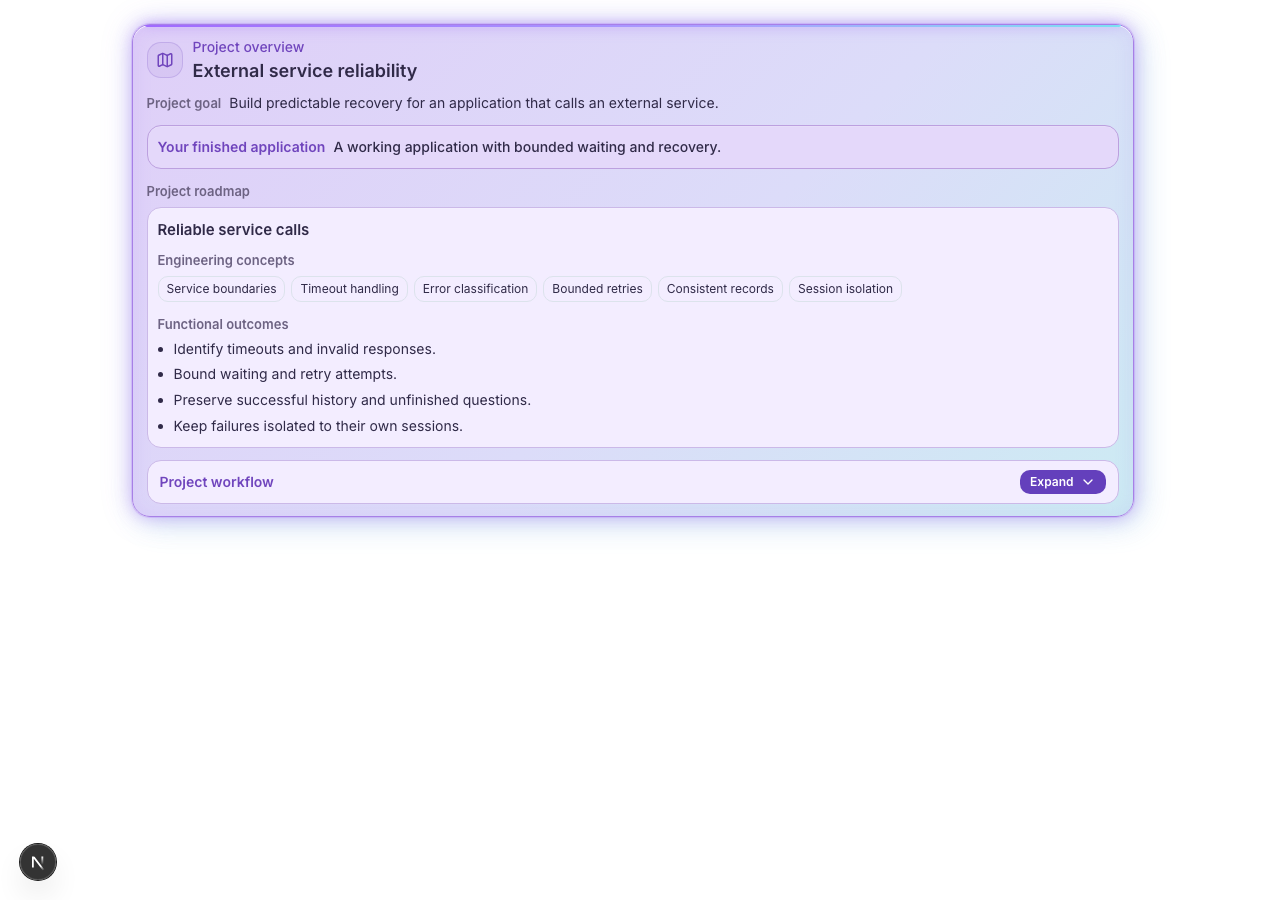
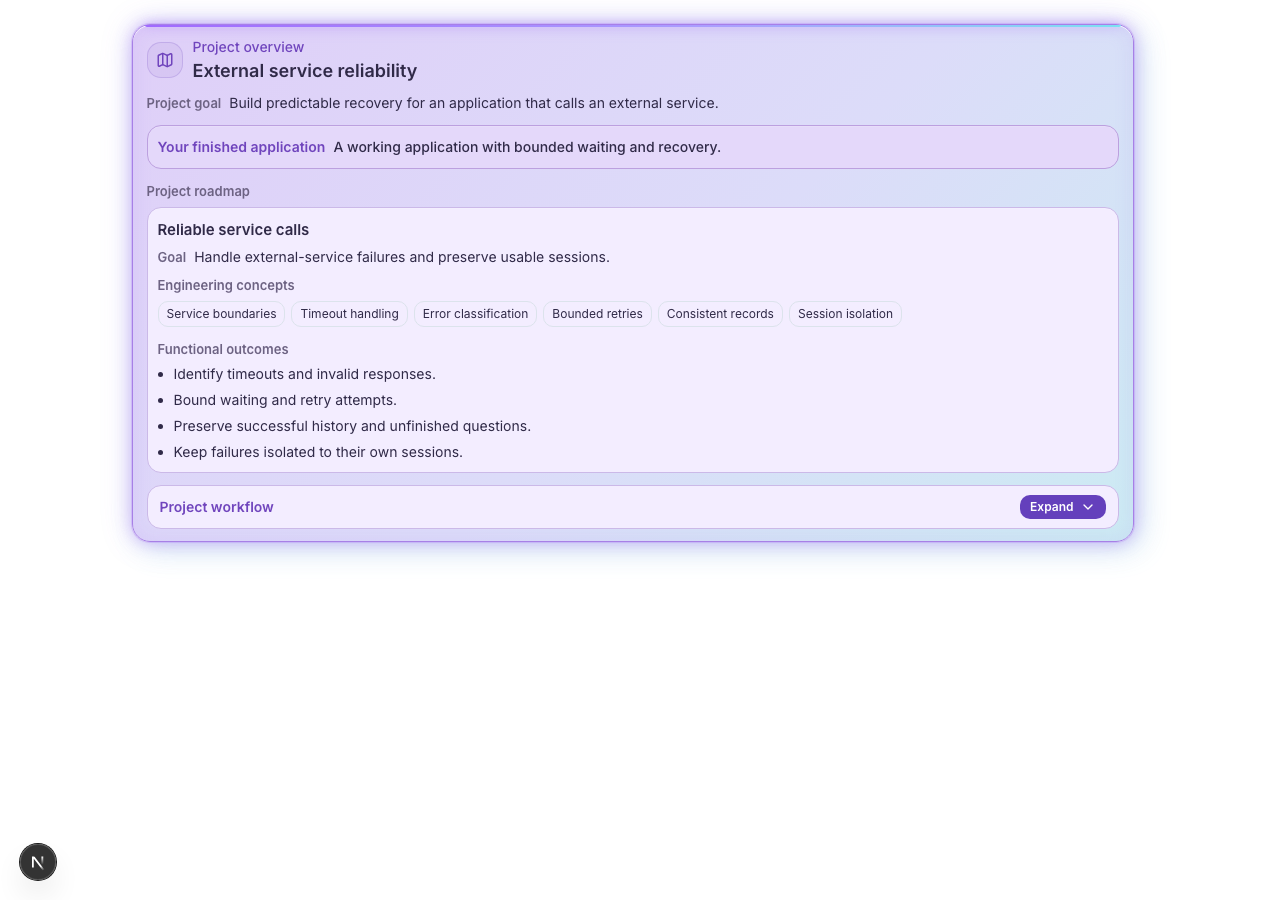
fix(pbl): preserve distinct single-milestone summaries

Changed region(s): [[0.0938, 0.28, 0.9062, 0.6222], [0.625, 0.3111, 0.6875, 0.3733], [0.5312, 0.3111, 0.5938, 0.3733]]

diff --git a/tests/pbl/v3/project-overview.test.ts b/tests/pbl/v3/project-overview.test.ts
@@ -1,0 +1,91 @@
+// @vitest-environment jsdom
+import { act, createElement } from 'react';
+import { createRoot, type Root } from 'react-dom/client';
+import { afterEach, beforeEach, expect, it, vi } from 'vitest';
+import { ProjectOverview } from '@/components/scene-renderers/pbl/v3/project-overview';
+import type { ProjectHeroDetails } from '@/lib/pbl/project-hero';
+import type { LearningView } from '@/lib/pbl/v3/types';
+
+vi.mock('@/lib/hooks/use-i18n', () => ({
+  useI18n: () => ({ t: (key: string) => key }),
+}));
+Object.assign(globalThis, { IS_REACT_ACT_ENVIRONMENT: true });
+
+const hero: ProjectHeroDetails = {
+  title: 'Reliability project',
+  description: 'Project-level goal.',
+  finishedWork: 'Project-level finished application.',
+  instructorName: 'Mentor',
+  milestoneCount: 1,
+  taskCount: 7,
+};
+type Milestones = NonNullable<LearningView['milestones']>;
+const milestone: Milestones[number] = {
+  id: 'one',
+  title: 'Service recovery',
+  optional: false,
+  stages: [],
+};
+let host: HTMLDivElement, root: Root;
+beforeEach(() => {
+  host = document.createElement('div');
+  document.body.append(host);
+  root = createRoot(host);
+});
+afterEach(async () => {
+  await act(async () => root.unmount());
+  host.remove();
+});
+async function render(milestones: Milestones, projectHero = hero) {
+  const view = { title: hero.title, milestones } as LearningView;
+  await act(async () => root.render(createElement(ProjectOverview, { view, hero: projectHero })));
+}
+const occurrences = (text: string) => host.textContent!.split(text).length - 1;
+
+it('preserves a single milestone goal and outcome that differ from the project summary', async () => {
+  await render([
+    {
+      ...milestone,
+      goal: 'Milestone-specific goal.',
+      outcome: 'Milestone-specific outcome.',
+      concepts: ['Bounded retries'],
+      deliverables: ['A recoverable session'],
+    },
+  ]);
+  for (const text of [
+    hero.description,
+    hero.finishedWork!,
+    'Milestone-specific goal.',
+    'Milestone-specific outcome.',
+    'Bounded retries',
+    'A recoverable session',
+  ])
+    expect(occurrences(text)).toBe(1);
+});
+
+it('omits only identical single-milestone goal and outcome summaries', async () => {
+  await render([{ ...milestone, goal: hero.description, outcome: hero.finishedWork }]);
+  expect(occurrences(hero.description)).toBe(1);
+  expect(occurrences(hero.finishedWork!)).toBe(1);
+});
+
+it('keeps milestone text when project-level summaries are absent', async () => {
+  await render([{ ...milestone, goal: 'Local goal.', outcome: 'Local outcome.' }], {
+    ...hero,
+    description: '',
+    finishedWork: undefined,
+  });
+  expect(occurrences('Local goal.')).toBe(1);
+  expect(occurrences('Local outcome.')).toBe(1);
+});
+
+it('preserves each milestone summary in multi-milestone projects', async () => {
+  await render([
+    { ...milestone, goal: hero.description, outcome: hero.finishedWork },
+    { ...milestone, id: 'two', goal: 'Second goal.', outcome: 'Second outcome.' },
+  ]);
+  expect(occurrences(hero.description)).toBe(2);
+  expect(occurrences(hero.finishedWork!)).toBe(2);
+  expect(occurrences('Second goal.')).toBe(1);
+  expect(occurrences('Second outcome.')).toBe(1);
+});

diff --git a/components/scene-renderers/pbl/v3/project-overview.tsx b/components/scene-renderers/pbl/v3/project-overview.tsx
@@ -79,22 +79,25 @@ export function ProjectOverview({ view, hero }: { view: LearningView; hero?: Pro
                       </h5>
                     </div>
                     <div className="space-y-1">
-                      {milestone.goal && (!singleMilestone || !hero?.description) && (
-                        <p>
-                          <span className="pbl-overview-label me-2">
-                            {t(combined ? 'pblV3.overview.goalAndResult' : 'pblV3.overview.goal')}
-                          </span>
-                          {milestone.goal}
-                        </p>
-                      )}
-                      {milestone.outcome && !combined && (!singleMilestone || !outcome) && (
-                        <p>
-                          <span className="pbl-overview-label me-2">
-                            {t('pblV3.overview.result')}
-                          </span>
-                          {milestone.outcome}
-                        </p>
-                      )}
+                      {milestone.goal &&
+                        (!singleMilestone || milestone.goal !== hero?.description) && (
+                          <p>
+                            <span className="pbl-overview-label me-2">
+                              {t(combined ? 'pblV3.overview.goalAndResult' : 'pblV3.overview.goal')}
+                            </span>
+                            {milestone.goal}
+                          </p>
+                        )}
+                      {milestone.outcome &&
+                        !combined &&
+                        (!singleMilestone || milestone.outcome !== outcome) && (
+                          <p>
+                            <span className="pbl-overview-label me-2">
+                              {t('pblV3.overview.result')}
+                            </span>
+                            {milestone.outcome}
+                          </p>
+                        )}
                       {singleMilestone && !!milestone.concepts?.length && (
                         <div className="pt-1">
                           <p className="pbl-overview-label mb-1.5">
